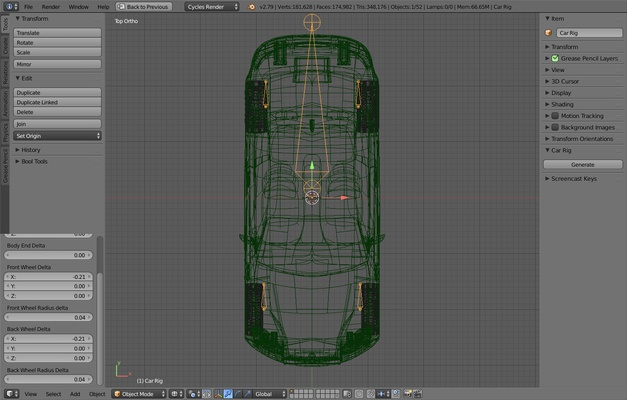
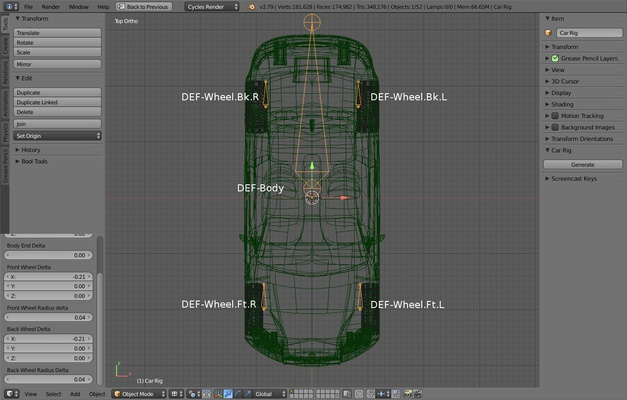
correction thanks to julien

diff --git a/articles/rigacar.html b/articles/rigacar.html
@@ -70,9 +70,9 @@ kind of armature : a deformation rig for a car.</p>
 used to animate directly your model : the four wheels and the body. Rigacar expects
 your model is oriented along the Y axis. This way the front of your model matches
 the front view in <a class="reference external" href="https://www.blender.org">Blender</a>. If it is not the case, you should rotate your model
-to match this orientation. Of course, don't forget to apply rotation and scale on you model.</p>
-<p>If you look at the rig, you will notice that each bone's head (the big end) is
-positioned ahead. Please don't change the orientation of the bones or the final
+to match this orientation. Of course, don't forget to apply rotation and scale on your model.</p>
+<p>If you look at the rig, you will notice that each bone is oriented in the same direction
+as the car. Please don't change the orientation of the bones or the final
 rig will not work properly.</p>
 <p>You should place the bones for the wheels first to fit your model according
 to their names:</p>
@@ -102,7 +102,7 @@ to their names:</p>
 </tbody>
 </table>
 <p>For each wheel, the bone's head must be placed at the center of the wheel but,
-on the X axis, the bone should be placed inward (especially for front wheels to
+on the X axis, the bone should be placed at the inner edge of the wheel (especially for front wheels to
 match the pivot point of the steering axis). The length of the bone must match
 the radius of the wheel.</p>
 <p>DEF-Body is the name of the deformation bone for the car body. Its head should be placed at
@@ -122,8 +122,8 @@ You just have to follow the naming convention!</p>
 </div>
 <div class="section" id="use-naming-convention">
 <h2>Use naming convention</h2>
-<p>If you have named your objects wisely, the addon can do almost all the job for you.
-Your wheels name should end respectively with <em>Wheel.Ft.L</em>, <em>Wheel.Ft.R</em>,
+<p>If you name your objects as mentioned below, the addon can do almost all the job for you.
+Your wheels names should end respectively with <em>Wheel.Ft.L</em>, <em>Wheel.Ft.R</em>,
 <em>Wheel.Bk.L</em> and <em>Wheel.Bk.R</em> and the body name should end with <em>Body</em>. Then, make
 sure the center point of each object is correctly placed.</p>
 <p>Select all four wheels and the body (you can even select more than the expected
@@ -202,16 +202,16 @@ add keyframes for each frame.</dd>
 </div>
 <div class="section" id="adjust-suspension">
 <h2>Adjust suspension</h2>
-<p>Moving ground sensor and damper nodes has an effect over the body of your model.
+<p>Moving ground sensor and damper nodes has an effect on the body of your model.
 Animation of these bones is supposed to be subtle. Otherwise, your model
 will be stripped away. If you want, you can adjust this suspension effect in <em>Car Rig</em> panel.</p>
 <a href="http://digicreatures.net/photos/rigacar/rigacar_panel_suspension.jpg" data-lightbox="rigacar"><img alt="" src="http://digicreatures.net/photos/rigacar/rigacar_panel_suspensiont.jpg" /></a>
 <dl class="docutils">
 <dt><em>Suspension factor</em></dt>
-<dd>This factor adjust the variation on the local Z axis of the body when ground
+<dd>This factor adjusts the variation on the local Z axis of the body when ground
 sensors and/or damper nodes are moving.</dd>
 <dt><em>Suspension rolling factor</em></dt>
-<dd>This factor adjust rolling of the body when ground sensors and/or damper nodes
+<dd>This factor adjusts rolling of the body when ground sensors and/or damper nodes
 are moving.</dd>
 </dl>
 <p>If you want to keep full control on your animation, you can turn these factors
@@ -219,15 +219,15 @@ to 0 to deactivate any effect from the suspension.</p>
 </div>
 <div class="section" id="to-infinity-and-beyond">
 <h2>To infinity and beyond</h2>
-<p>I will be glad if this addon could be useful to some of you. I am no professional
+<p>I would be glad if this addon could be useful to some of you. I am no professional
 rigger nor animator. So I am pretty sure this addon and the generated rig can
 be dramatically improved. Use them in a way I have not imagined and give me feedbacks.
 You can use the comments below, you can <a class="reference external" href="https://github.com/digicreatures/rigacar/issues">create an issue</a>
 on GitHub and, of course, you can <a class="reference external" href="https://github.com/digicreatures/rigacar">fork my code</a>.</p>
-<p>Originally, I planned to use the addon developped by <a class="reference external" href="https://blenderartists.org/forum/showthread.php?239360-Car-Rig">Ondrej Raha</a>.
-But this addon seems not to work properly on latest <a class="reference external" href="https://www.blender.org">Blender</a> version. I spent
-some time trying to update it but, eventually, I realized it would not provide the features
-I was looking for. So I decided to write my own addon and finally to share it with the community.</p>
+<p>Originally, I was inspired by <a class="reference external" href="https://blenderartists.org/forum/showthread.php?239360-Car-Rig">Ondrej Raha's addon</a>.
+I eventually realized it would not provide the features
+I was looking for. So I decided to write my own addon and finally to share it with the community.
+Thanks to him for giving me inspiration.</p>
 <p>Drive safely :)</p>
 <div class="admonition note">
 <p class="first admonition-title">Note</p>
